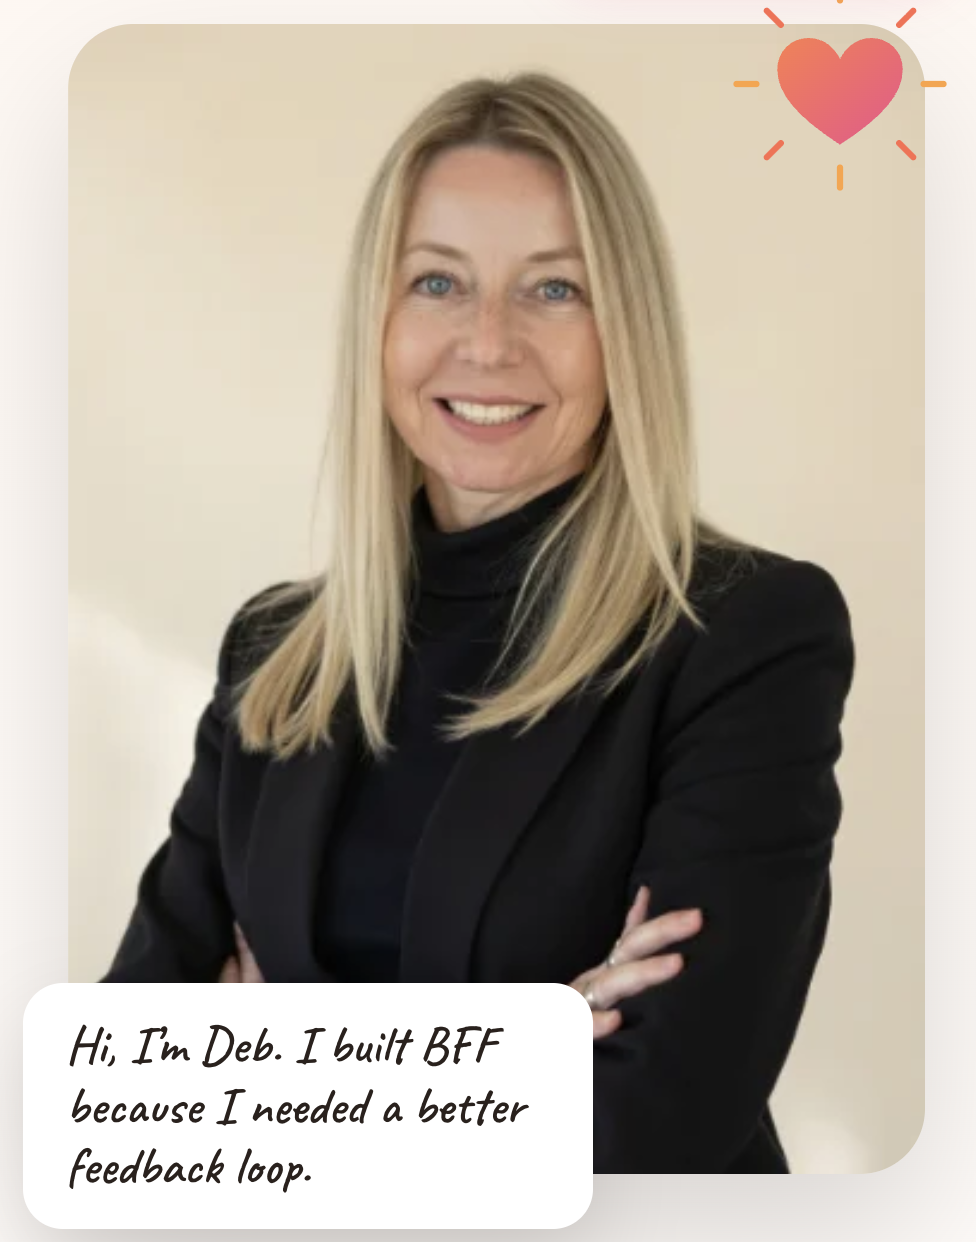
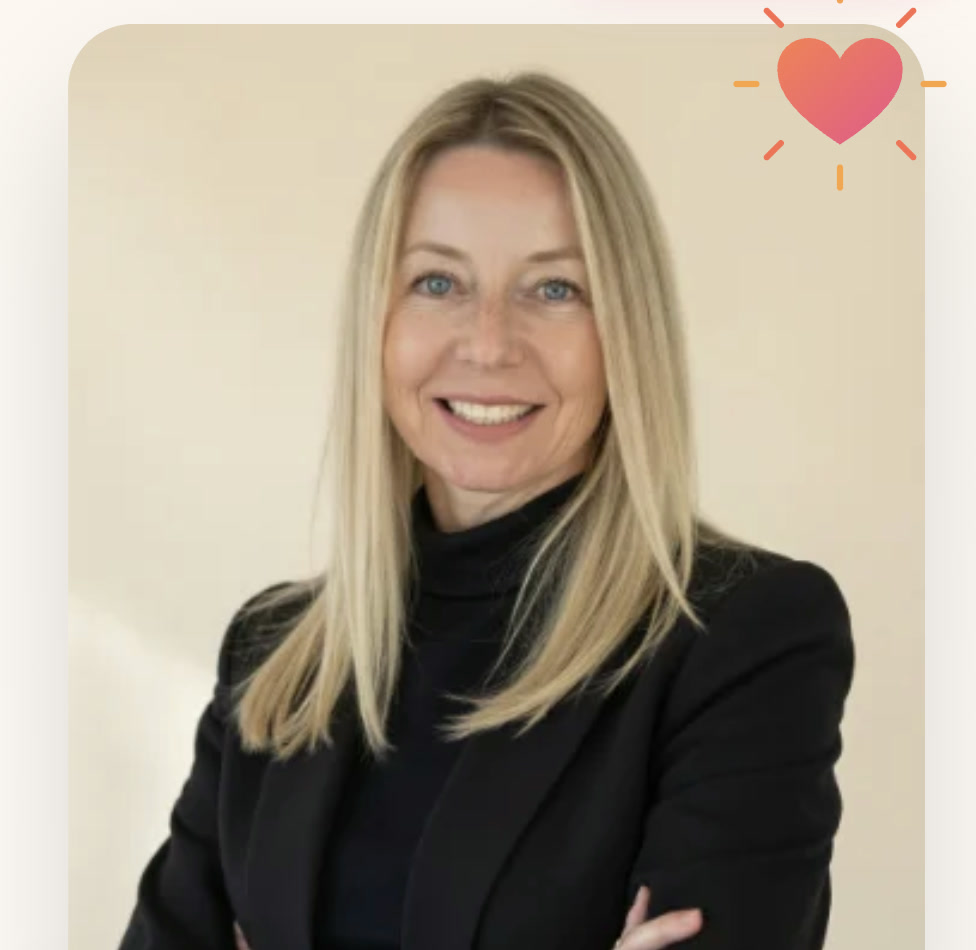
Fix double caption on BFF hero photo and update caption copy
The duplicate caption was baked into the photo asset itself, which is why removing it in code never fixed it. Cropped the embedded caption out of the image and updated the code caption to new copy.

diff --git a/src/pages/BFFWellnessApp.tsx b/src/pages/BFFWellnessApp.tsx
@@ -170,7 +170,7 @@ const BFFWellnessApp = () => {
           <div style={{ display: "flex", justifyContent: "center", position: "relative" }}>
             <img src={debbieCreamBg} alt="Debbie Collins" style={{ width: "100%", maxWidth: "400px", height: "480px", objectFit: "cover", borderRadius: "26px", boxShadow: "0 28px 60px rgba(42,33,28,0.18)" }} />
             <div style={{ position: "absolute", left: "-18px", bottom: "-22px", background: "#fff", borderRadius: "16px", padding: "13px 17px", boxShadow: "0 16px 34px rgba(42,33,28,0.16)", maxWidth: "228px" }}>
-              <div style={{ fontFamily: "'Caveat', cursive", fontWeight: 600, fontSize: "21px", lineHeight: 1.15, color: BFF_COLORS.ink }}>I built BFF because I needed a better feedback loop.</div>
+              <div style={{ fontFamily: "'Caveat', cursive", fontWeight: 600, fontSize: "21px", lineHeight: 1.15, color: BFF_COLORS.ink }}>I built BFF because I needed to understand how my body was responding.</div>
             </div>
           </div>
         </div>